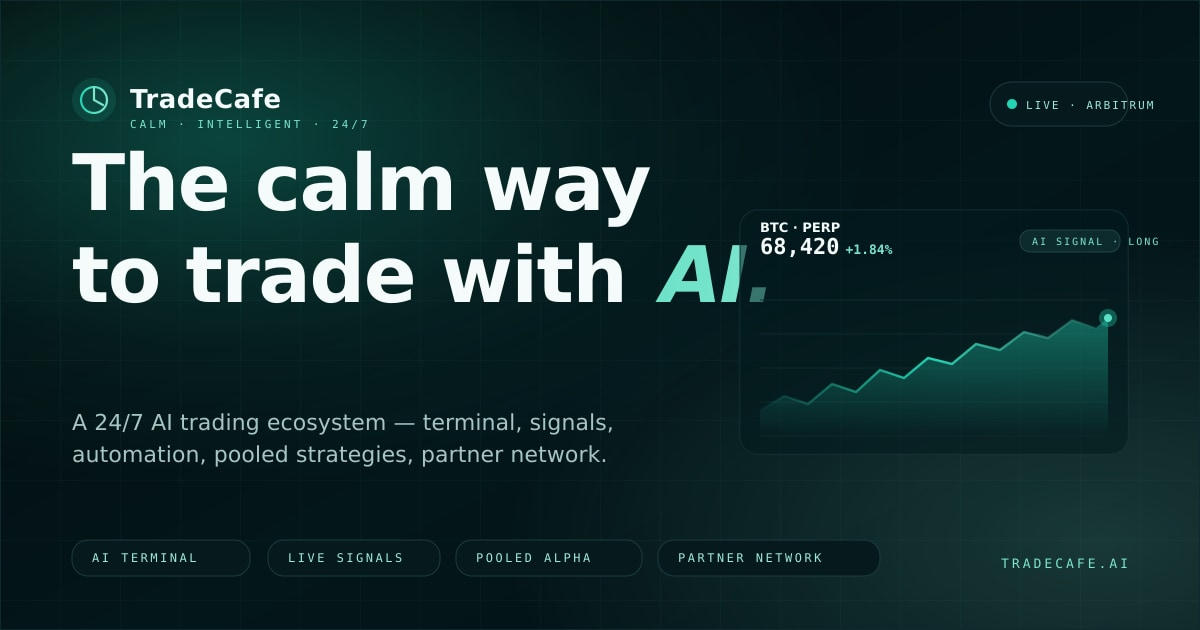
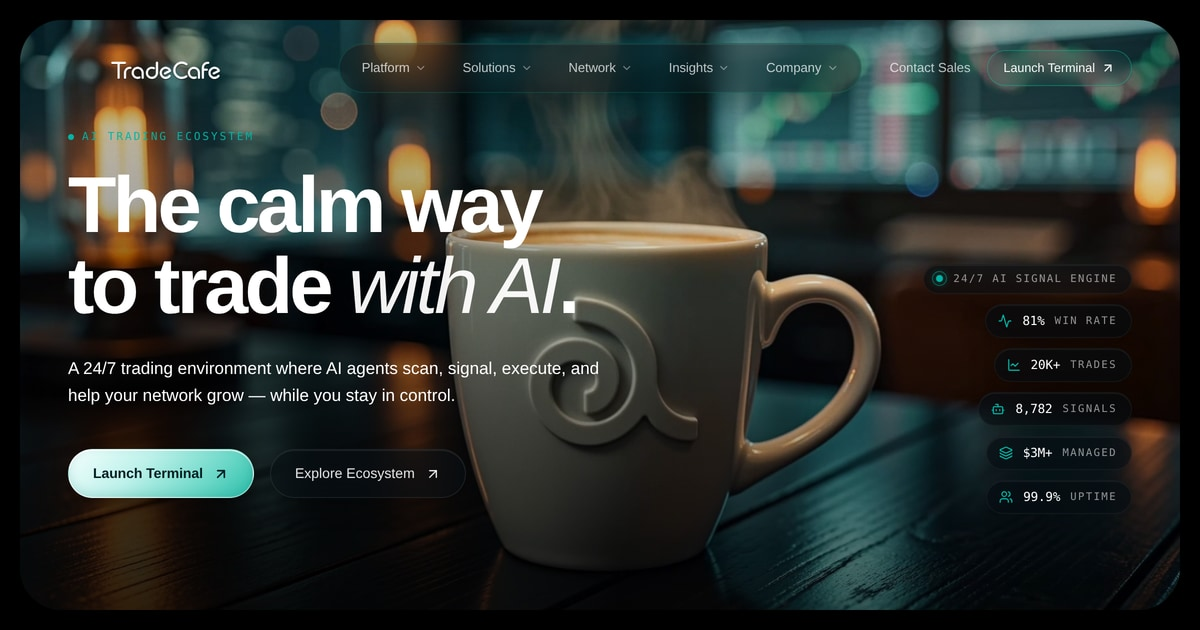
og: replace synthetic SVG card with real landing-hero screenshot
scripts/build-og-image.js now drives a headless Chromium against the
built site, captures the hero at 1200x630@2x, and writes og-image.jpg
plus og-image.png.

diff --git a/frontend/scripts/build-og-image.js b/frontend/scripts/build-og-image.js
@@ -1,27 +1,47 @@
 /* eslint-disable */
-// Rasterize public/og-image.svg → public/og-image.jpg (1200x630)
-// Run: node scripts/build-og-image.js
+// Capture the live landing page hero as the OG image (1200x630).
+// Usage:
+//   1. Build:  yarn build
+//   2. Serve:  npx serve -s build -l 5577
+//   3. Run:    node scripts/build-og-image.js
 const fs = require("fs");
 const path = require("path");
 const sharp = require("sharp");
+const { chromium } = require("playwright");
 
-const SVG = path.join(__dirname, "..", "public", "og-image.svg");
-const OUT = path.join(__dirname, "..", "public", "og-image.jpg");
+const URL = process.env.OG_URL || "http://127.0.0.1:5577/";
+const OUT_JPG = path.join(__dirname, "..", "public", "og-image.jpg");
 const OUT_PNG = path.join(__dirname, "..", "public", "og-image.png");
+const EXE = process.env.PW_CHROMIUM || "/opt/pw-browsers/chromium-1194/chrome-linux/chrome";
 
 async function main() {
-  const svg = fs.readFileSync(SVG);
-  await sharp(svg, { density: 220 })
-    .resize(1200, 630, { fit: "cover" })
-    .jpeg({ quality: 92, mozjpeg: true })
-    .toFile(OUT);
-  await sharp(svg, { density: 220 })
-    .resize(1200, 630, { fit: "cover" })
-    .png({ compressionLevel: 9 })
-    .toFile(OUT_PNG);
-  const j = fs.statSync(OUT);
-  const p = fs.statSync(OUT_PNG);
-  console.log(`og-image.jpg ${(j.size / 1024).toFixed(1)} KB`);
-  console.log(`og-image.png ${(p.size / 1024).toFixed(1)} KB`);
+  const browser = await chromium.launch({
+    executablePath: fs.existsSync(EXE) ? EXE : undefined,
+    args: ["--no-sandbox", "--disable-dev-shm-usage"],
+  });
+  const ctx = await browser.newContext({
+    viewport: { width: 1200, height: 630 },
+    deviceScaleFactor: 2,
+    colorScheme: "dark",
+    reducedMotion: "reduce",
+  });
+  const page = await ctx.newPage();
+  await page.goto(URL, { waitUntil: "networkidle", timeout: 60000 });
+  // Hide cursor, scrollbars, anything fixed (cookie banner, sticky nav glow seams).
+  await page.addStyleTag({ content: `
+    *,*::before,*::after { animation: none !important; transition: none !important; }
+    html, body { overflow: hidden !important; cursor: none !important; }
+    [data-testid="cookie-banner"], .cookie-banner { display: none !important; }
+  `});
+  // Let fonts settle.
+  await page.evaluate(() => document.fonts && document.fonts.ready);
+  await page.waitForTimeout(800);
+  const buf = await page.screenshot({ type: "png", clip: { x: 0, y: 0, width: 1200, height: 630 } });
+  await browser.close();
+
+  await sharp(buf).resize(1200, 630, { fit: "cover" }).jpeg({ quality: 92, mozjpeg: true }).toFile(OUT_JPG);
+  await sharp(buf).resize(1200, 630, { fit: "cover" }).png({ compressionLevel: 9 }).toFile(OUT_PNG);
+  console.log(`og-image.jpg ${(fs.statSync(OUT_JPG).size / 1024).toFixed(1)} KB`);
+  console.log(`og-image.png ${(fs.statSync(OUT_PNG).size / 1024).toFixed(1)} KB`);
 }
 main().catch((e) => { console.error(e); process.exit(1); });
